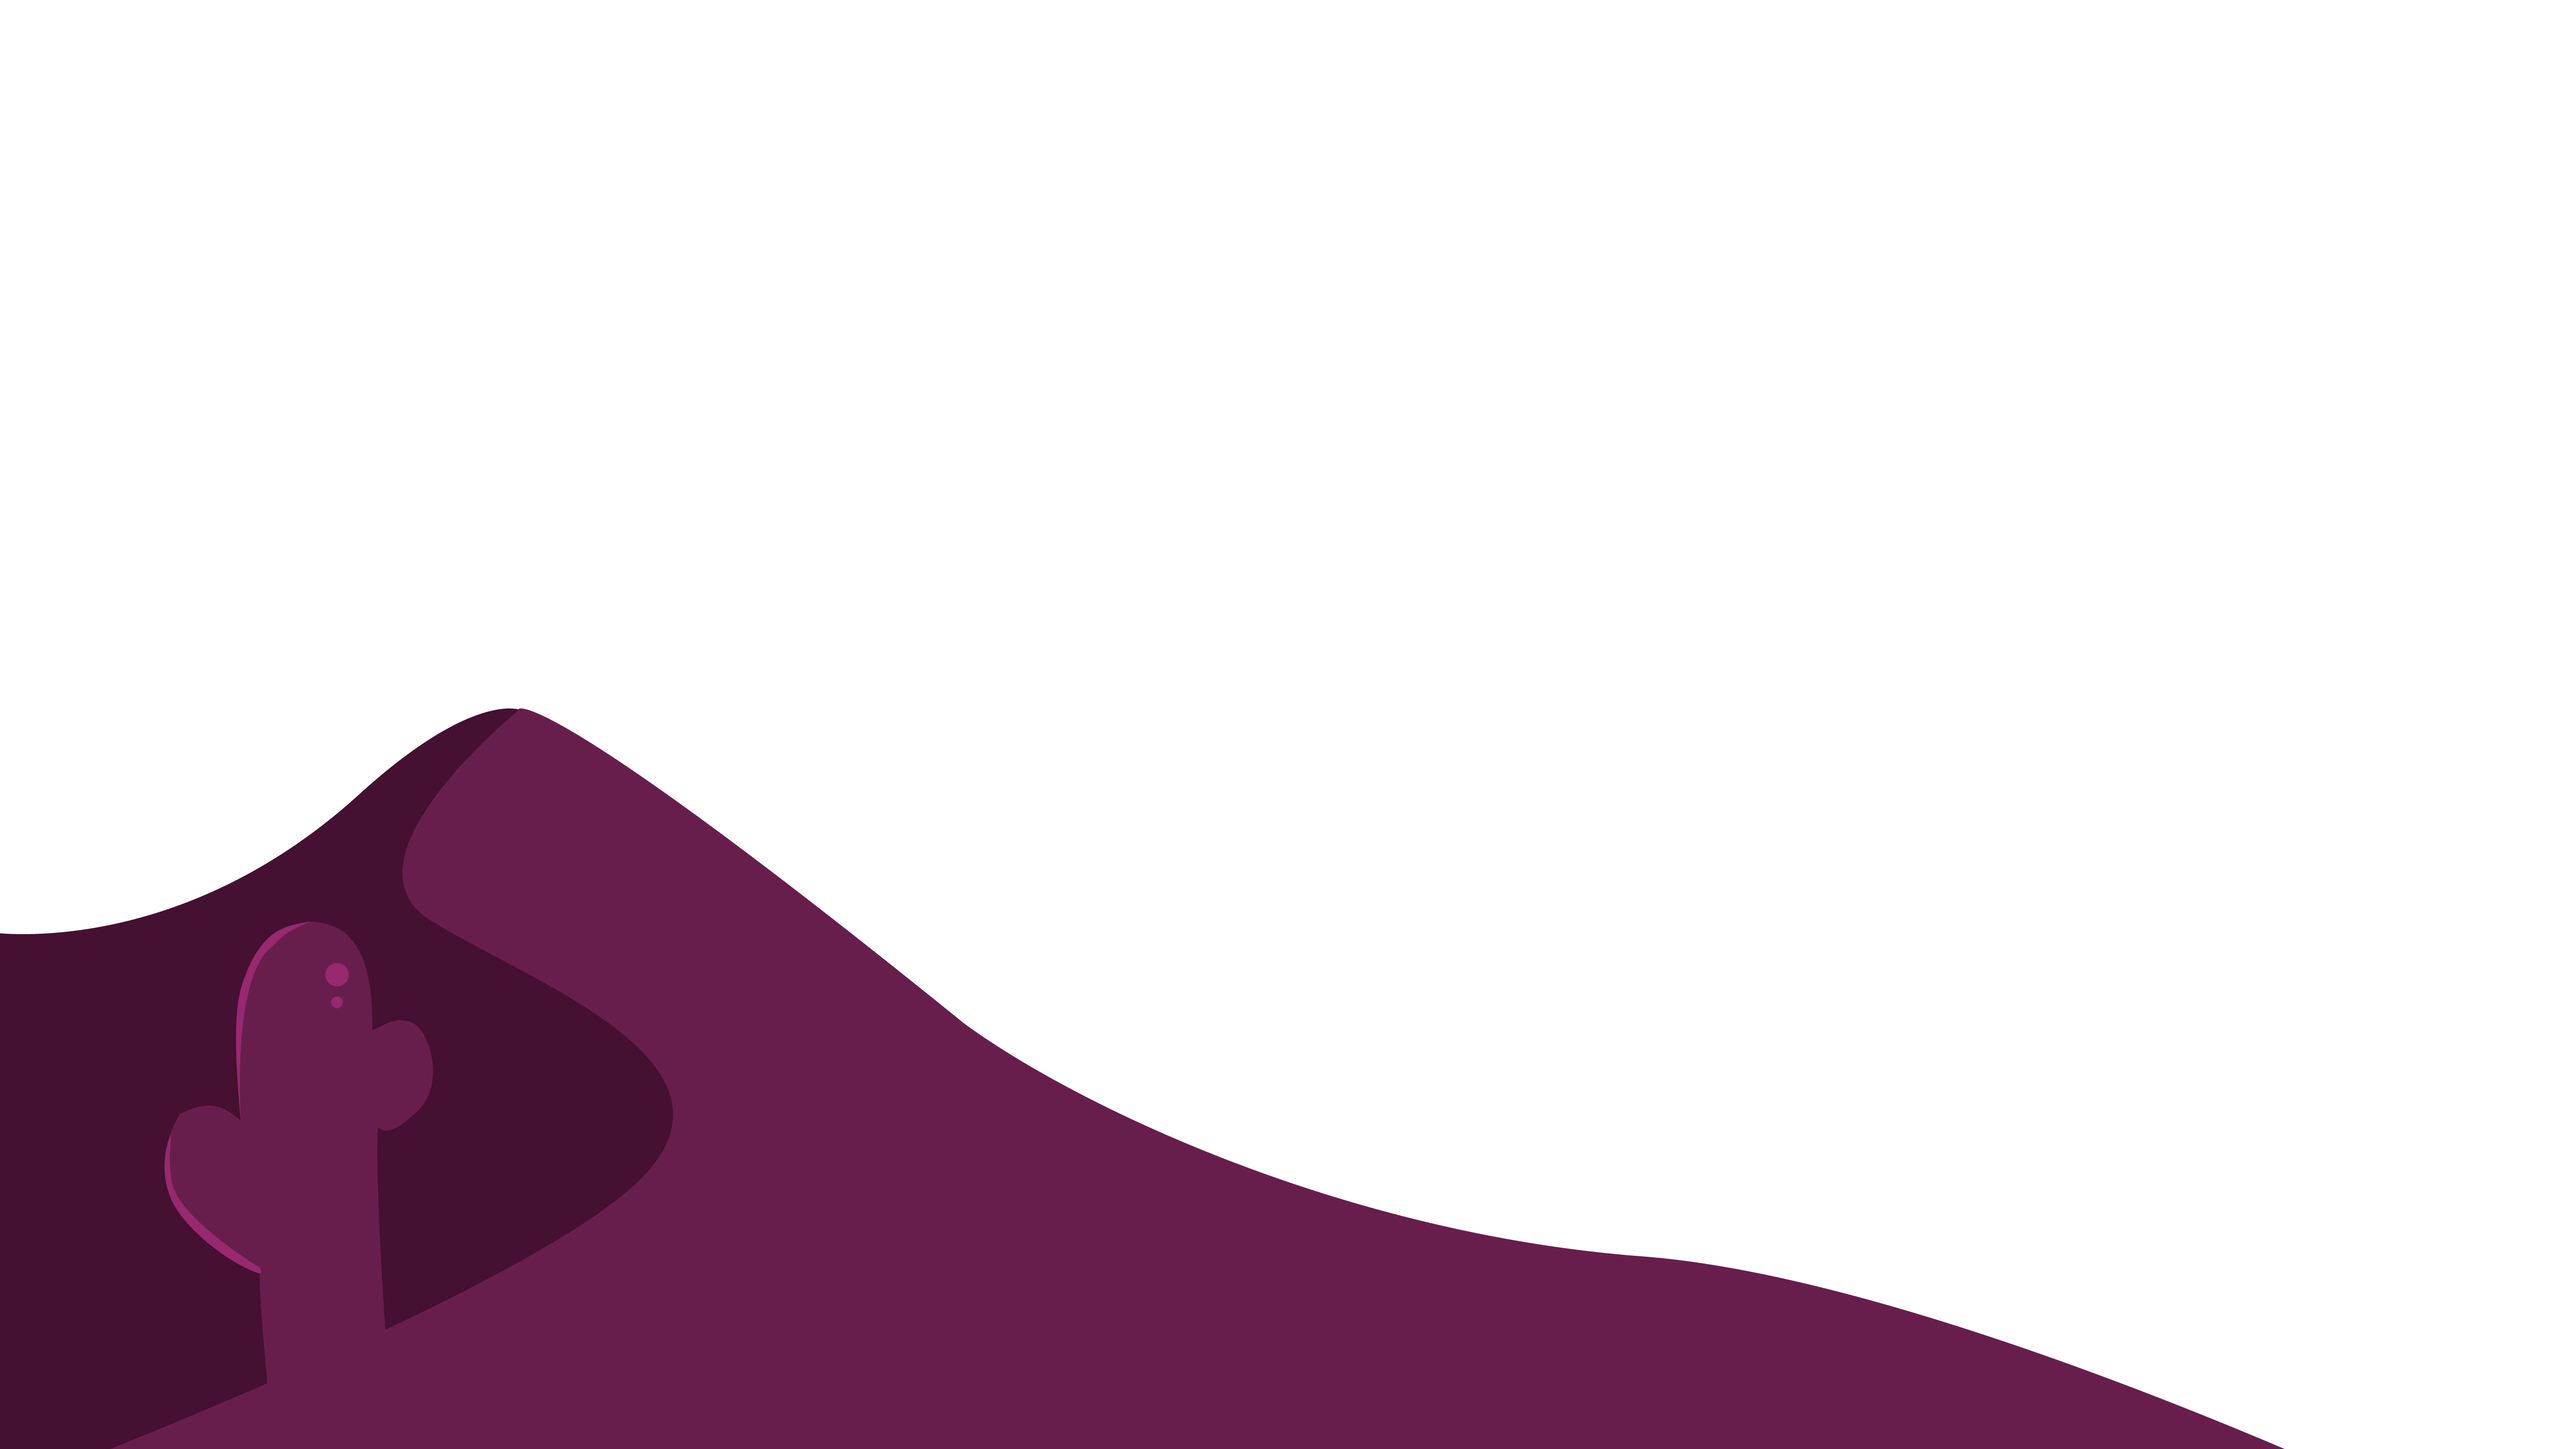
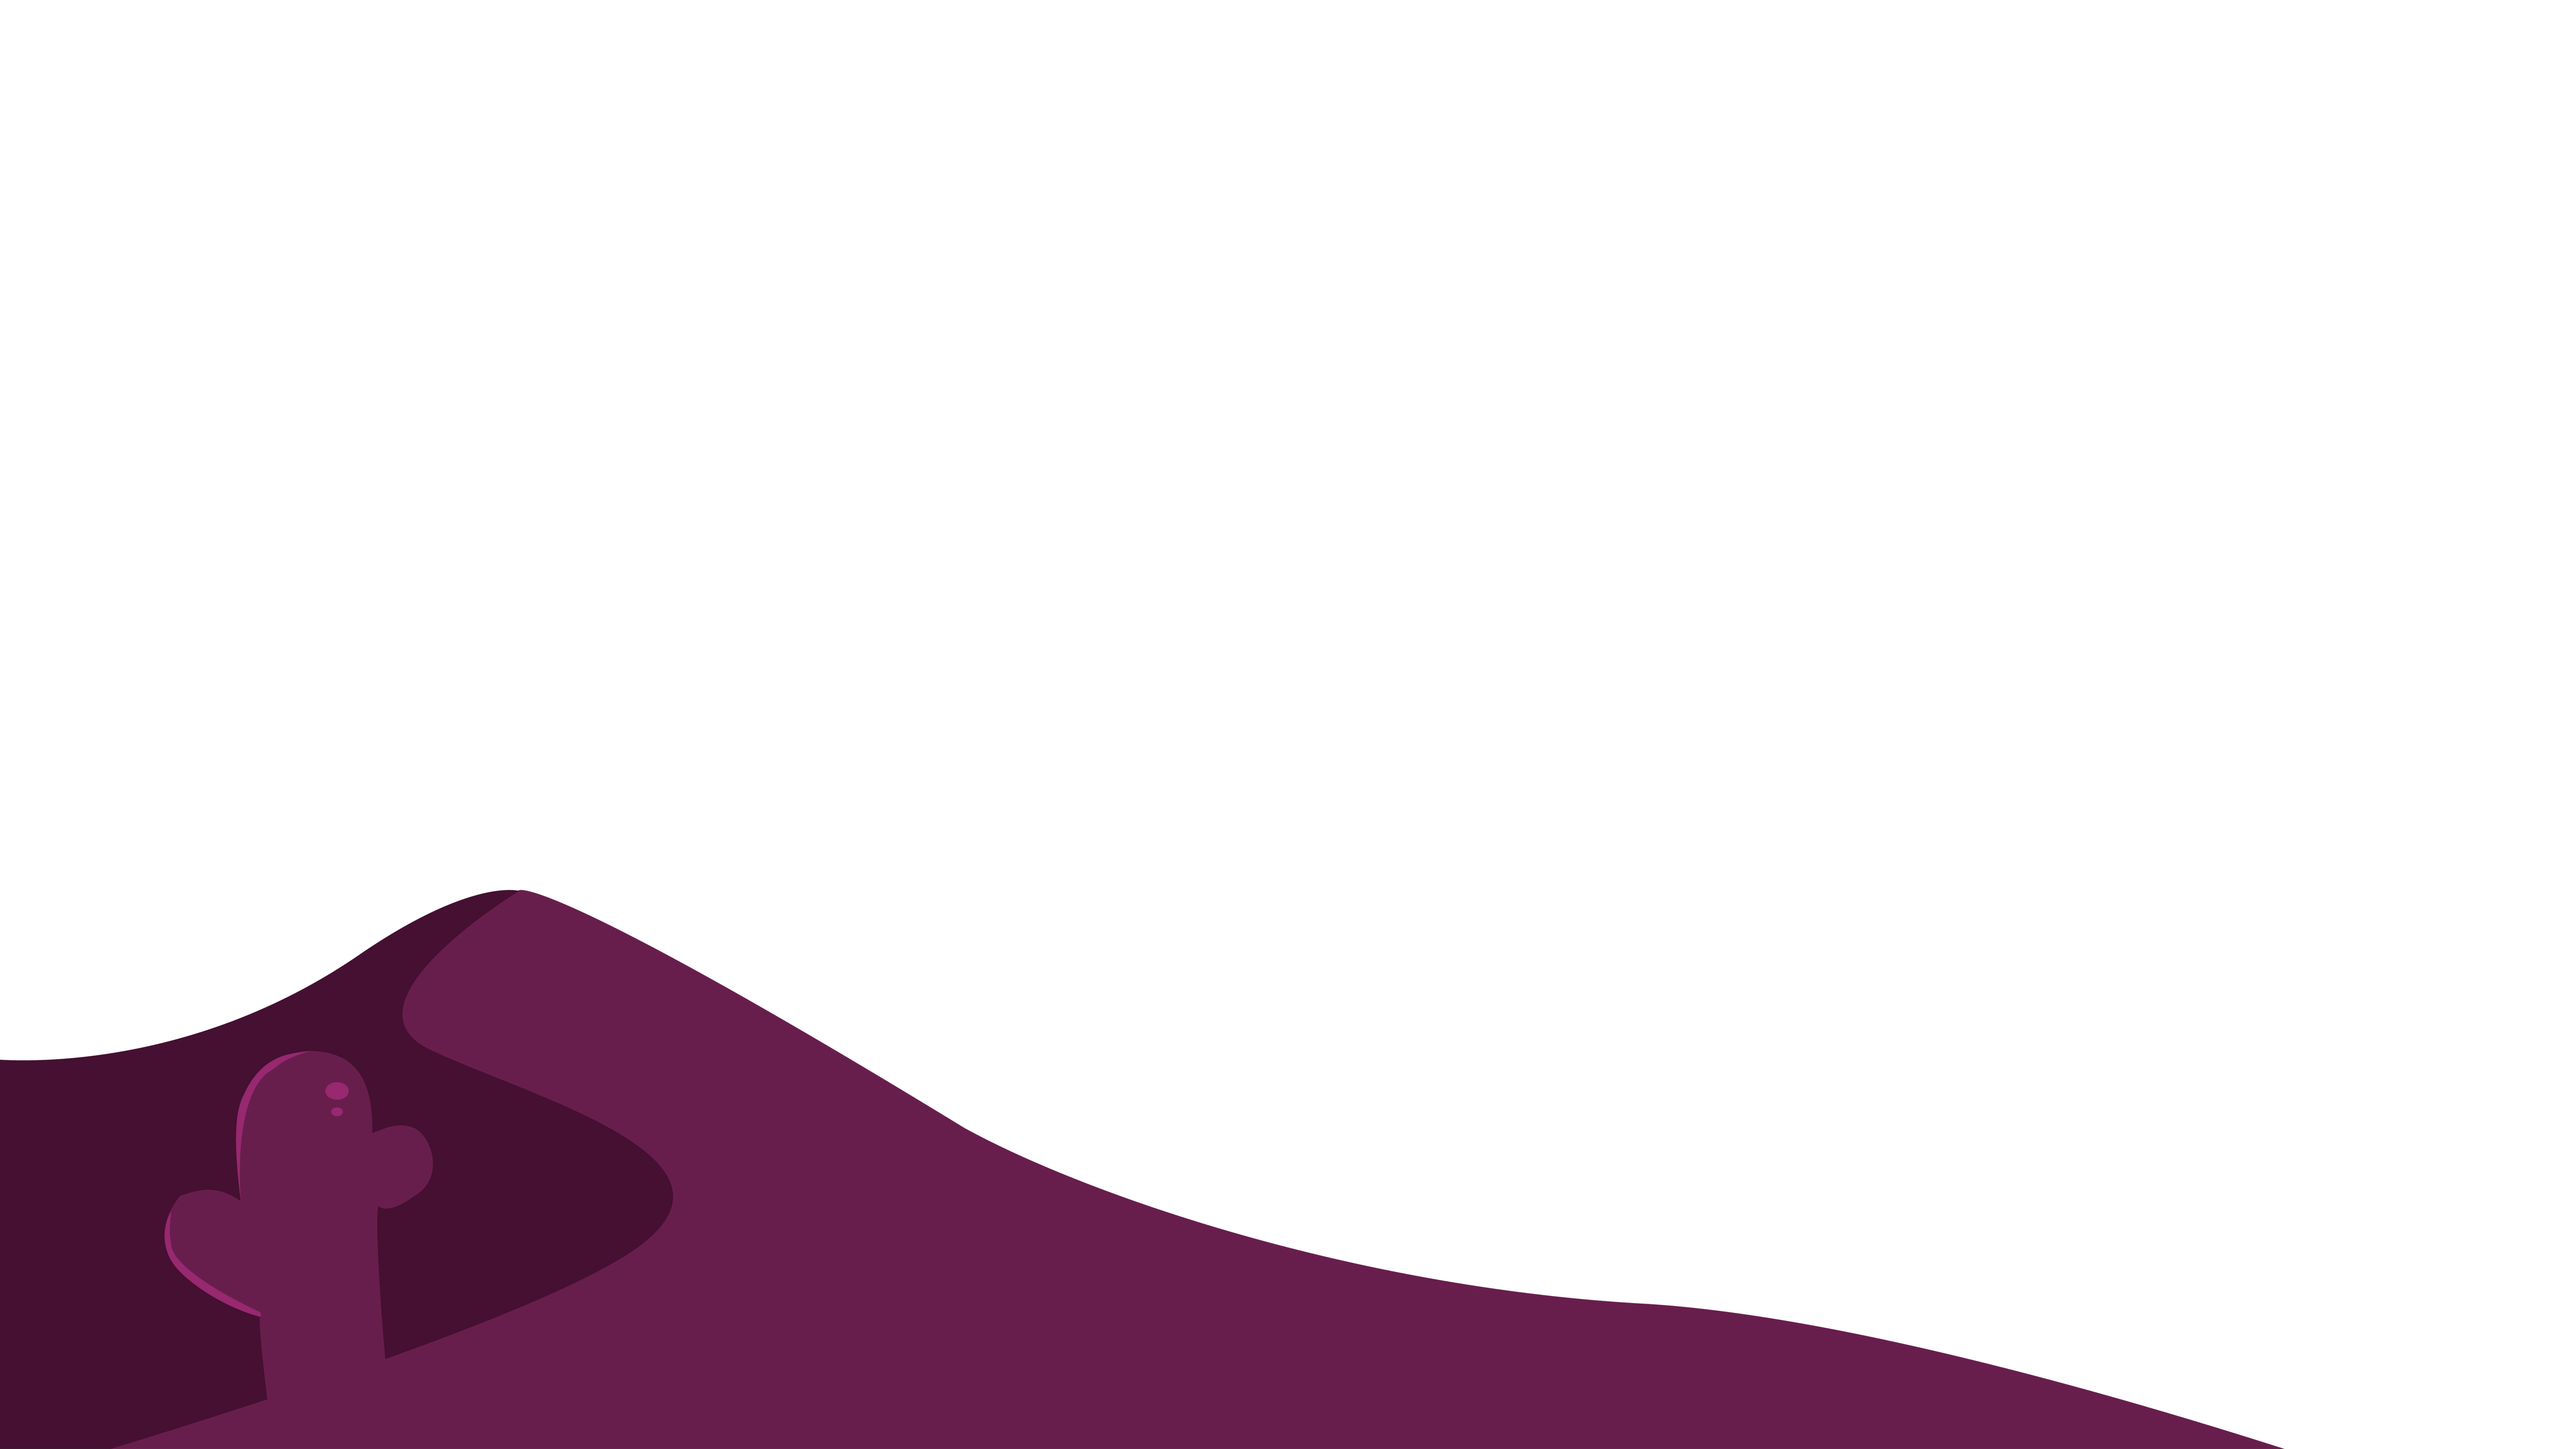
95%

Changed region(s): [[0.0, 0.465, 0.8716, 0.992], [0.0623, 0.961, 0.0934, 0.992]]

diff --git a/Portfolio-style.css b/Portfolio-style.css
@@ -14,7 +14,7 @@ body{
     height: 120vh;
     width: 100%;
     background: linear-gradient(#9d235a,#e9d8e5);
-    overflow-x: hidden;
+    overflow: hidden;
 }
 .logo{
 
@@ -29,13 +29,25 @@ body{
     left: 10%;
 }
     
+.top{
+    width:100%;
+    height: 100vh;
+
+}
+.topr{
+    width: 2000px;
+}
+.topl{
+    width: 1000px;
+    background-color: #fff;
+
+}
 .top img{
     position: absolute;
-    width:100%;
     height: 100%;
     top: 0;
     left: 0;
-    object-fit: cover;
+
 }
 
 
@@ -43,33 +55,74 @@ body{
 
 .top img#mainCloud{
     width:100%;
+    object-fit: cover;
 
 }
 .top img#mainFont-Right{
     width:100%;
-    transform: translateX(550px);
+    transform: translate(900px, 0px);
+
 }
 .top img#mainFont-Left {
     width:100%;
-    transform: translateX(-550px);
+    transform: translate(-1000px, 20px);
 }
 .top img#mainBack{
     width:100%;
-    transform: translateY(-20px);
-}
+    overflow-x: hidden;
+    object-fit: cover;
 
+}
+ 
+@media (max-width: 1400px){
+    .top img#mainFont-Right{
+        width:150%;
+        transform: translate(70px, 0px);
+    
+    }
+    .top img#mainFont-Left {
+        width:150%;
+        transform: translate(250px, 50px);
+    }
+}
+@media (max-width: 1200px){
+    .top img#mainFont-Left {
+        width:200%;
+        transform: translate(-1200px, 100px);
+        }
+    .top img#mainFont-Right{
+        width:200%;
+        transform: translate(70px, 100px);
+    }
+}
 @media (max-width: 992px){
     .top img#mainFont-Left {
     width:200%;
-    transform: translateX(-950px);
+    transform: translate(-1050px, 100px);
     }
     .top img#mainFont-Right{
         width:200%;
-        transform: translateX(550px);
+        transform: translate(130px, 100px);
     }
     .top img#mainBack{
         width:100%;
-        transform: translateY(0px);
+    }
+    .top img#mainCloud{
+        width:200%;
+    
+    }
+}
+@media (max-width: 768px){
+    .top img#mainFont-Left {
+    width:200%;
+    transform: translate(-1050px, 100px);
+    }
+    .top img#mainFont-Right{
+        width:200%;
+        transform: translate(80px, 100px);
+    }
+    .top img#mainBack{
+        width:100%;
     }
     .top img#mainCloud{
         width:200%;
@@ -80,6 +133,14 @@ body{
     .logo{
         font-size: 70px;
     }
+    .top img#mainFont-Left {
+        width:300%;
+        transform: translate(-1150px, 150px);
+        }
+    .top img#mainFont-Right{
+        width:300%;
+        transform: translate(0px, 90px);
+    }
 }
 @media (max-width: 500px){
     .logo{
@@ -88,6 +149,29 @@ body{
         letter-spacing: 8px;
 
     }
+    .top img#mainFont-Left {
+        width:400%;
+        transform: translate(-1150px, 150px);
+        }
+    .top img#mainFont-Right{
+        width:400%;
+        transform: translate(-200px, 60px);
+    }
+
+
+}
+@media (max-width:400px){
+
+    .top img#mainFont-Left {
+        width:400%;
+        transform: translate(-1080px, 80px);
+        }
+    .top img#mainFont-Right{
+        width:400%;
+        transform: translate(-240px, 60px);
+    }
+
+
 }
 
 /* ----------------------------自介------------------------------ */

diff --git a/Portfolio.html b/Portfolio.html
@@ -22,15 +22,15 @@
         <div class="top">
             <img src="./img/Top-img/PNG/T-back(雜點).png" id="mainBack">
             <img src="./img/Top-img/T-雲-01.svg" id="mainCloud">
-            <img src="./img/Top-img/PNG/T-font-R(雜點).png" id="mainFont-Right">
-            <img src="./img/Top-img/PNG/T-font-L(雜點).png" id="mainFont-Left">
+            <div class="topr"> <img src="./img/Top-img/PNG/T-font-R(雜點).png" id="mainFont-Right"></div>
+            <div class="topl"></div><img src="./img/Top-img/PNG/T-font-L(雜點).png" id="mainFont-Left"></div>
         </div>
     </section>
 
 
     <section class="myself">
 
-        <div class="wrap">
+        <div class="wrap wow animate__animated animate__slideInUp">
             <div class="Yuchi">
                 <div class="pic">
                     <img src="./img/網頁/3.png" alt="">
@@ -42,11 +42,9 @@
             </div>
 
 
-            <div class="wrap2">
+            <div class="wrap2 ">
 
-                
-
-                <div class="aboutme">
+                <div class="aboutme wow animate__animated animate__slideInUp">
                         <div class="txt1 txt-con">
                             <h2>|個人資訊</h2>
                             <h3>Yu - Chi  LO</h3>
@@ -61,7 +59,7 @@
                         </div>
                 </div>
 
-                <div class="skill">
+                <div class="skill wow animate__animated animate__slideInUp">
                         <div class=" txt1 txt-con">
                             <h2>|相關證照</h2>
                             <h3>網頁設計 - 丙級</h3>
@@ -78,10 +76,10 @@
                         </div>
                 </div>
 
-                <div class="software">
+                <div class="software wow animate__animated animate__slideInUp" >
                         <img src="./img/Top-img/tools.png" alt=""><img src="./img/Top-img/tools2.png" alt="">
                 </div>
-                
+
                 <div class="talk">
                     <h4>
                         透過科技縮短生活與美的距離，讓美不只存在於圖紙影像，同時也成為能夠被使用的產品，並且賦予強大功能性。
@@ -162,6 +160,10 @@
         </div>
     </footer>
 
+    <script src="./wow.min.js"></script>
+    <script>
+        new WOW().init();
+    </script>
     <script src="./portfolio.js"></script>
     <script src="https://kit.fontawesome.com/1d5975ddf1.js" crossorigin="anonymous"></script>
 </body>

diff --git a/navbar-btn-footer-style.css b/navbar-btn-footer-style.css
@@ -8,14 +8,19 @@ body{
 }
 
 ::-webkit-scrollbar{
-    width: 24px;
-    background-color: rgb(0, 0, 0);
+    width: 25px;
+    background-color: rgb(39, 39, 39);
 }
 ::-webkit-scrollbar-thumb{
     background-color: rgba(255, 255, 255, 0.3);
     border-radius: 999px;
     border: 5px solid transparent;
     background-clip: content-box;
+}
+@media (max-width: 992px){
+    ::-webkit-scrollbar{
+        background-color: transparent;
+    }
 }
 
 /* --------------------------------------- 導覽列 ------------------------------------------- */
